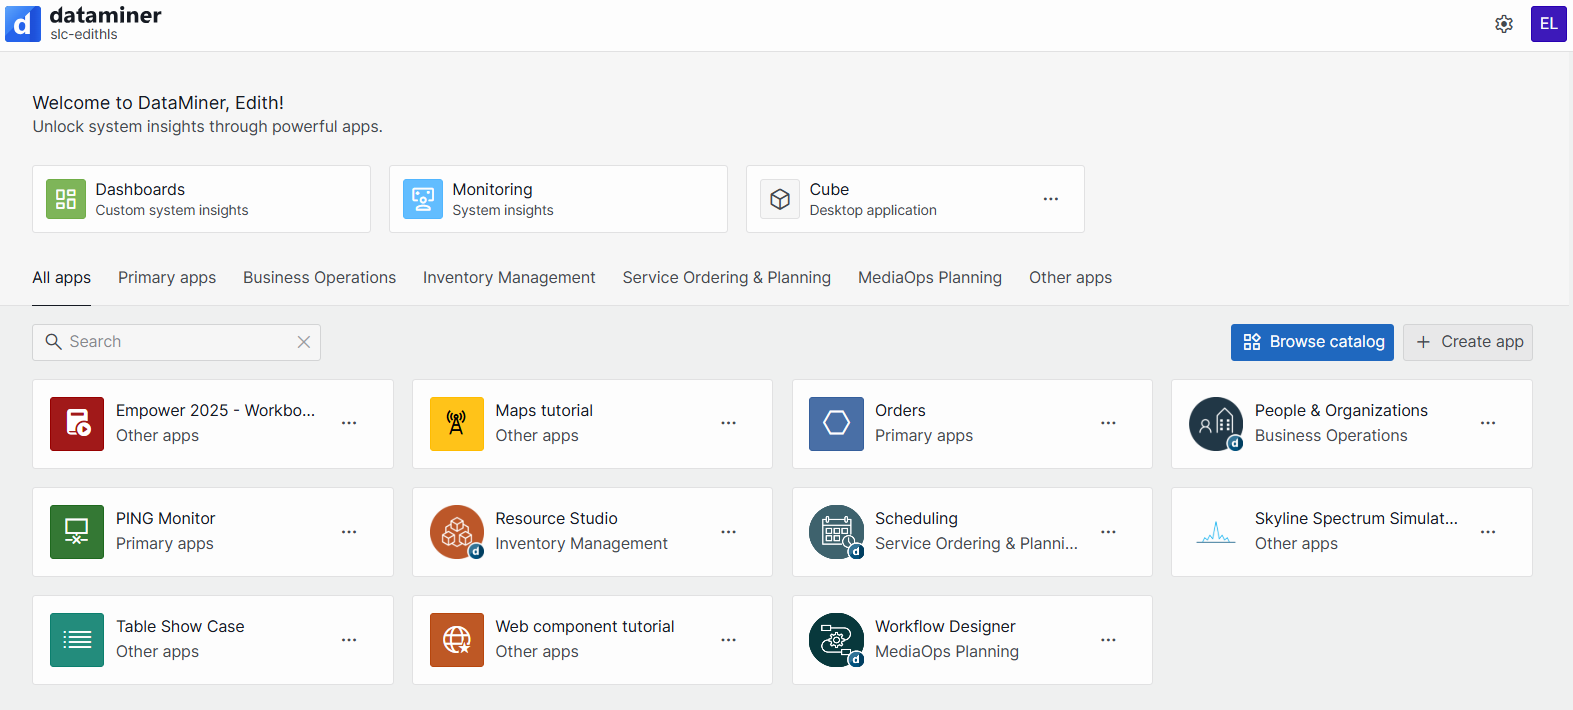
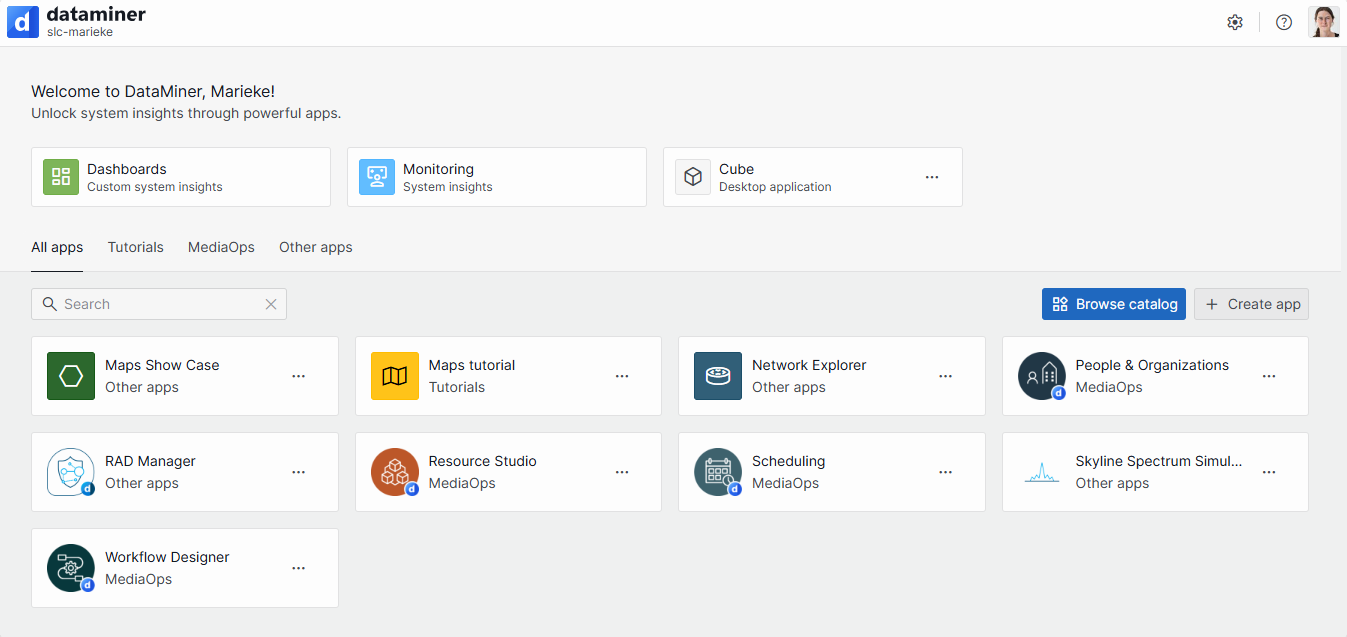
RN 43583

diff --git a/dataminer/Getting_started/Accessing_DataMiner/Accessing_the_web_apps.md b/dataminer/Getting_started/Accessing_DataMiner/Accessing_the_web_apps.md
@@ -35,29 +35,23 @@ To access the DataMiner landing page:
 
 1. On the landing page, select the app you want to open. See [Available web apps](#available-web-apps).
 
-   ![Landing page](~/dataminer/images/DataMiner_Landing_Page2.png)<br>*DataMiner landing page in DataMiner 10.5.9*
+   ![Landing page](~/dataminer/images/DataMiner_Landing_Page2.png)<br>*DataMiner landing page in DataMiner 10.5.11*
 
 In the top-left corner of the landing page, click the **DataMiner icon** or waffle icon (depending on your DataMiner version<!--RN 43024-->) to open a compact overview of the available web apps. From DataMiner 10.4.0 [CU18]/10.5.0 [CU6]/10.5.9 onwards<!--RN 43226-->, next to this icon, the **name of the DMS** is shown. In the case of a standalone DMA, the DMA name is shown instead.
 
-From DataMiner 10.4.0 [CU18]/10.5.0 [CU6]/10.5.9 onwards<!--RN 43226-->, you can customize the **DataMiner landing page theme**:
+In the top-right corner of the landing page, the ![Help](~/dataminer/images/Landing_page_help_icon.png) icon provides access to several handy pages (from DataMiner web 10.4.0 [CU20]/10.5.0 [CU8]/10.5.11 onwards<!-- 43583 -->):
 
-1. Add the argument `?showAdvancedSettings=true` to the landing page URL.
-
-1. Click the cogwheel button in the top-right corner of the page.
-
-1. Select one of the available themes:
-
-   - *Light* (Default)
-
-   - *Dark*
-
-   - *System*
+- *Community*: Links to the DataMiner Dojo blog, a page where you can suggest new DataMiner features, and our Q&A forum.
+- *Documentation*: Links to the main page of the DataMiner documentation.
+- *Status*: Displays the current status of the various DataMiner services.
+- *Feedback*: Allows you to provide direct feedback on DataMiner.
+- *Support*: Displays contact information for DataMiner Support.
 
 ## Available web apps
 
 The landing page provides access to the following web apps:
 
-![Landing page](~/dataminer/images/DataMiner_Landing_Page.png)<br>*DataMiner landing page in DataMiner 10.5.9*
+![Landing page](~/dataminer/images/DataMiner_Landing_Page.png)<br>*DataMiner landing page in DataMiner 10.5.11*
 
 - (1) [Dashboards app](xref:newR_D): Use this app to create, manage, and view dashboards that provide insights into your monitored system.
 
@@ -97,3 +91,19 @@ To do so:
 1. Optionally, you can pin the app to your taskbar or add a desktop shortcut to quickly open it.
 
    ![Standalone app](~/dataminer/images/Standalone_App.png)<br>*Low-Code Apps module in DataMiner 10.5.8*
+
+## Customizing the landing page theme
+
+From DataMiner 10.4.0 [CU18]/10.5.0 [CU6]/10.5.9 onwards<!--RN 43226-->, you can customize the DataMiner landing page theme:
+
+1. Add the argument `?showAdvancedSettings=true` to the landing page URL.
+
+1. Click the cogwheel button in the top-right corner of the page.
+
+1. Select one of the available themes:
+
+   - *Light* (Default)
+
+   - *Dark*
+
+   - *System*
